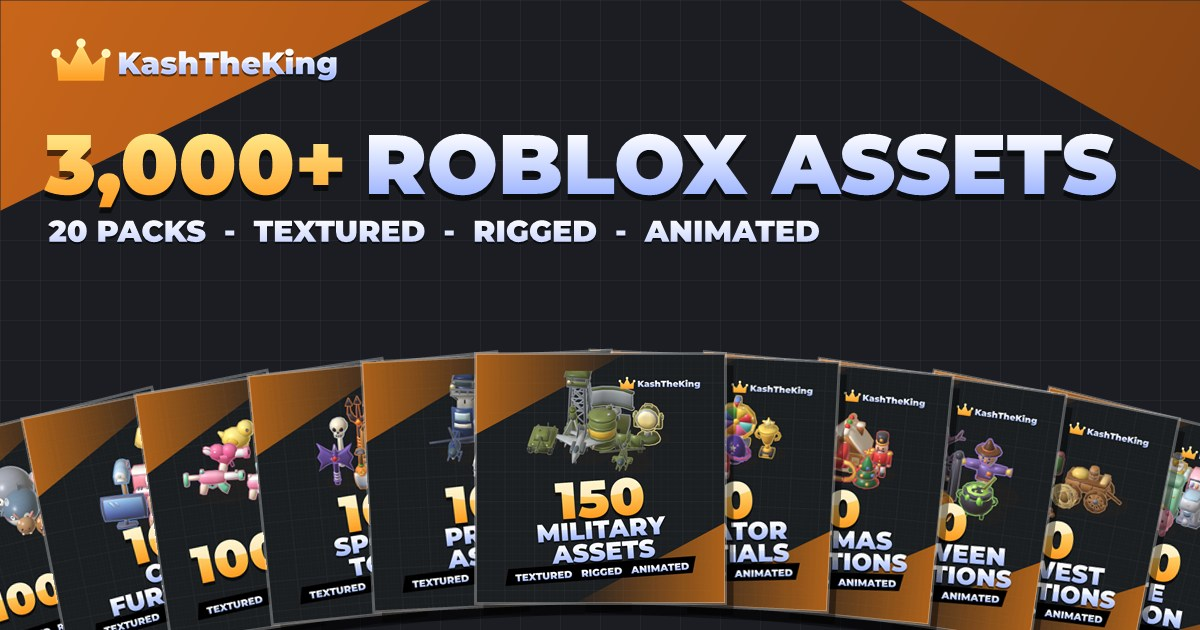
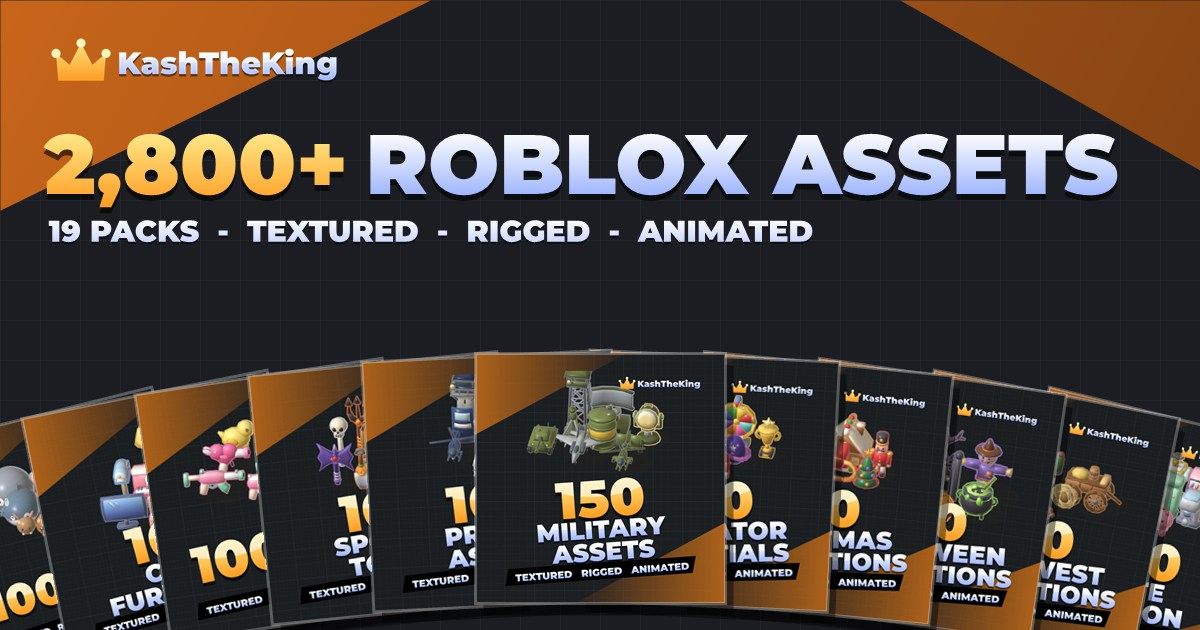
Shop: 250 Cute Sea Creatures is coming soon

diff --git a/shop/index.html b/shop/index.html
@@ -10,14 +10,14 @@
     <meta property="og:url" content="https://kashtheking.com/shop/">
     <meta property="og:title" content="KashTheKing Shop 👑">
     <meta property="og:description" content="Low-poly Roblox asset packs: textured, rigged and animated.">
-    <meta property="og:image" content="https://kashtheking.com/shop/og-banner.jpg?v=20">
+    <meta property="og:image" content="https://kashtheking.com/shop/og-banner.jpg?v=19">
     <meta property="og:image:width" content="1200">
     <meta property="og:image:height" content="630">
     <meta name="twitter:card" content="summary_large_image">
     <link rel="icon" type="image/png" sizes="32x32" href="/assets/favicon-crown-32.png">
     <link rel="apple-touch-icon" sizes="180x180" href="/assets/favicon-crown-180.png">
     <link rel="canonical" href="https://kashtheking.com/shop/">
-    <!--packs:start--><script type="application/ld+json">{"@context":"https://schema.org","@type":"ItemList","name":"Roblox asset packs by KashTheKing","numberOfItems":20,"itemListElement":[{"@type":"ListItem","position":1,"name":"150 Military Assets","url":"https://kashtheking.com/shop/150-military-assets/"},{"@type":"ListItem","position":2,"name":"100 Prison Assets","url":"https://kashtheking.com/shop/100-prison-assets/"},{"@type":"ListItem","position":3,"name":"100 Simulator Essentials","url":"https://kashtheking.com/shop/100-simulator-essentials/"},{"@type":"ListItem","position":4,"name":"100 Christmas Decorations","url":"https://kashtheking.com/shop/100-christmas-decorations/"},{"@type":"ListItem","position":5,"name":"100 Spooky Tools","url":"https://kashtheking.com/shop/100-spooky-tools/"},{"@type":"ListItem","position":6,"name":"100 Halloween Decorations","url":"https://kashtheking.com/shop/100-halloween-decorations/"},{"@type":"ListItem","position":7,"name":"100 Cute Guns","url":"https://kashtheking.com/shop/100-cute-guns/"},{"@type":"ListItem","position":8,"name":"100 Wild West Decorations","url":"https://kashtheking.com/shop/100-wild-west-decorations/"},{"@type":"ListItem","position":9,"name":"100 Cute Furniture","url":"https://kashtheking.com/shop/100-cute-furniture/"},{"@type":"ListItem","position":10,"name":"100 Cute Tycoon Assets","url":"https://kashtheking.com/shop/100-cute-tycoon-assets/"},{"@type":"ListItem","position":11,"name":"1000 Cute Pets","url":"https://kashtheking.com/shop/1000-cute-pets/"},{"@type":"ListItem","position":12,"name":"250 Cute Sea Creatures","url":"https://kashtheking.com/shop/250-cute-sea-creatures/"},{"@type":"ListItem","position":13,"name":"100 RPG Items","url":"https://kashtheking.com/shop/100-rpg-items/"},{"@type":"ListItem","position":14,"name":"100 Cute Cars","url":"https://kashtheking.com/shop/100-cute-cars/"},{"@type":"ListItem","position":15,"name":"100 Cute Foliage","url":"https://kashtheking.com/shop/100-cute-foliage/"},{"@type":"ListItem","position":16,"name":"100 Pirate Assets","url":"https://kashtheking.com/shop/100-pirate-assets/"},{"@type":"ListItem","position":17,"name":"100 Magic \u0026 Treasure Items","url":"https://kashtheking.com/shop/100-magic-and-treasure-items/"},{"@type":"ListItem","position":18,"name":"50 Low Poly Guns","url":"https://kashtheking.com/shop/50-low-poly-guns/"},{"@type":"ListItem","position":19,"name":"100 Cute Fruits","url":"https://kashtheking.com/shop/100-cute-fruits/"},{"@type":"ListItem","position":20,"name":"100 RPG Enemies","url":"https://kashtheking.com/shop/100-rpg-enemies/"}]}</script><!--packs:end-->
+    <!--packs:start--><script type="application/ld+json">{"@context":"https://schema.org","@type":"ItemList","name":"Roblox asset packs by KashTheKing","numberOfItems":19,"itemListElement":[{"@type":"ListItem","position":1,"name":"150 Military Assets","url":"https://kashtheking.com/shop/150-military-assets/"},{"@type":"ListItem","position":2,"name":"100 Prison Assets","url":"https://kashtheking.com/shop/100-prison-assets/"},{"@type":"ListItem","position":3,"name":"100 Simulator Essentials","url":"https://kashtheking.com/shop/100-simulator-essentials/"},{"@type":"ListItem","position":4,"name":"100 Christmas Decorations","url":"https://kashtheking.com/shop/100-christmas-decorations/"},{"@type":"ListItem","position":5,"name":"100 Spooky Tools","url":"https://kashtheking.com/shop/100-spooky-tools/"},{"@type":"ListItem","position":6,"name":"100 Halloween Decorations","url":"https://kashtheking.com/shop/100-halloween-decorations/"},{"@type":"ListItem","position":7,"name":"100 Cute Guns","url":"https://kashtheking.com/shop/100-cute-guns/"},{"@type":"ListItem","position":8,"name":"100 Wild West Decorations","url":"https://kashtheking.com/shop/100-wild-west-decorations/"},{"@type":"ListItem","position":9,"name":"100 Cute Furniture","url":"https://kashtheking.com/shop/100-cute-furniture/"},{"@type":"ListItem","position":10,"name":"100 Cute Tycoon Assets","url":"https://kashtheking.com/shop/100-cute-tycoon-assets/"},{"@type":"ListItem","position":11,"name":"1000 Cute Pets","url":"https://kashtheking.com/shop/1000-cute-pets/"},{"@type":"ListItem","position":12,"name":"100 RPG Items","url":"https://kashtheking.com/shop/100-rpg-items/"},{"@type":"ListItem","position":13,"name":"100 Cute Cars","url":"https://kashtheking.com/shop/100-cute-cars/"},{"@type":"ListItem","position":14,"name":"100 Cute Foliage","url":"https://kashtheking.com/shop/100-cute-foliage/"},{"@type":"ListItem","position":15,"name":"100 Pirate Assets","url":"https://kashtheking.com/shop/100-pirate-assets/"},{"@type":"ListItem","position":16,"name":"100 Magic \u0026 Treasure Items","url":"https://kashtheking.com/shop/100-magic-and-treasure-items/"},{"@type":"ListItem","position":17,"name":"50 Low Poly Guns","url":"https://kashtheking.com/shop/50-low-poly-guns/"},{"@type":"ListItem","position":18,"name":"100 Cute Fruits","url":"https://kashtheking.com/shop/100-cute-fruits/"},{"@type":"ListItem","position":19,"name":"100 RPG Enemies","url":"https://kashtheking.com/shop/100-rpg-enemies/"}]}</script><!--packs:end-->
     <link href="https://fonts.googleapis.com/css2?family=Inter:wght@400;600;700;800&family=Montserrat:wght@800;900&display=swap" rel="stylesheet">
     <style>
         * { margin: 0; padding: 0; box-sizing: border-box; }
@@ -120,7 +120,7 @@
     </div>
 
     <main>
-        <div id="grid" class="grid" aria-live="polite"><!--grid:start--><a class="card" href="150-military-assets/"><img src="img/150MilitaryAssets.jpg" alt="150 Military Assets Roblox asset pack" loading="lazy" width="540" height="540"><div class="body"><h2>150 Military Assets</h2><p>150 chunky low-poly military assets, true to scale for a 5-stud character: from a 0.6-stud bullet to an 80-stud cargo plane. Sandbags, barriers, trenches, bunkers, towers, hangar, tents, crates, radar, artillery, projectiles, tanks, trucks, helicopters, jets and boats. 1 Blender unit = 1 stud: hand-held gear is 0.6 to 3.5 studs, cover is chest high, doors and decks clear 7 studs, vehicles are 12 to 37 long. Every wheel is its own part, weapons have Turret / Barrel / Muzzle bones. Textured, rigged and animated.</p></div></a><a class="card" href="100-prison-assets/"><img src="img/100PrisonAssets.jpg" alt="100 Prison Assets Roblox asset pack" loading="lazy" width="540" height="540"><div class="body"><h2>100 Prison Assets</h2><p>100 chunky low-poly prison assets for jailbreak and escape games, true to scale for a 5-stud character: from a 0.8-stud key to a 30-stud prison bus and a 35-stud guard tower. Police car, SUV, prison van, bus, armoured truck, motorbike and helicopter, cells with sliding bar doors, bunks, walls, fences, gates, guard tower, yard, cafeteria, laundry, workshop, offices, security gear and escape tools. 1 Blender unit = 1 stud: cells are 12 x 10 x 10, doors clear 7.5 studs. Every wheel is its own part; doors, gates, barrier, searchlight and camera have bones. Textured, rigged and animated.</p></div></a><a class="card" href="100-simulator-essentials/"><img src="img/100SimulatorEssentials.jpg" alt="100 Simulator Essentials Roblox asset pack" loading="lazy" width="540" height="540"><div class="body"><h2>100 Simulator Essentials</h2><p>100 chunky low-poly props for simulator games: pet eggs, hatching stands, coins and gems, breakables, gates, portals and islands, shop and upgrade stations, boosts and rewards. Textured, rigged and animated.</p></div></a><a class="card" href="100-christmas-decorations/"><img src="img/100Christmas.jpg" alt="100 Christmas Decorations Roblox asset pack" loading="lazy" width="540" height="540"><div class="body"><h2>100 Christmas Decorations</h2><p>100 chunky low-poly Christmas and winter decorations: snowy pines and decorated trees, presents, candy canes and gingerbread, snowmen and snow forts, ice, ornaments, lights and village props. Textured, rigged and animated.</p></div></a><a class="card" href="100-spooky-tools/"><img src="img/100SpookyTools.jpg" alt="100 Spooky Tools Roblox asset pack" loading="lazy" width="540" height="540"><div class="body"><h2>100 Spooky Tools</h2><p>100 chunky low-poly Halloween tools for simulator and survival games: axes, pickaxes, hammers, shovels, swords, scythes, staffs and pitchforks in upgrade tiers from wood and bone to pumpkin, bat, slime, skull and cursed. Textured, rigged and animated.</p></div></a><a class="card" href="100-halloween-decorations/"><img src="img/100HalloweenDecor.jpg" alt="100 Halloween Decorations Roblox asset pack" loading="lazy" width="540" height="540"><div class="body"><h2>100 Halloween Decorations</h2><p>100 chunky cute-spooky Halloween map decorations: dead trees, pumpkins and jack-o-lanterns, gravestones and crypts, fences and gates, candles and lanterns, witch props, bones and decor. Textured, rigged and animated.</p></div></a><a class="card" href="100-cute-guns/"><img src="img/100CuteGuns.jpg" alt="100 Cute Guns Roblox asset pack" loading="lazy" width="540" height="540"><div class="body"><h2>100 Cute Guns</h2><p>100 cute, chubby toy blasters: pistols, SMGs, rifles, shotguns, snipers, launchers, ray guns and novelty guns in pastel and candy colours. Textured, rigged and animated.</p></div></a><a class="card" href="100-wild-west-decorations/"><img src="img/100WildWest.jpg" alt="100 Wild West Decorations Roblox asset pack" loading="lazy" width="540" height="540"><div class="body"><h2>100 Wild West Decorations</h2><p>100 chunky low-poly Wild West map decorations: cacti, tumbleweeds, dead trees, desert rocks and mesas, town props, ranch fences and wagons, mine carts and rails, and camp gear. Textured, rigged and animated.</p></div></a><a class="card" href="100-cute-furniture/"><img src="img/100CuteFurniture.jpg" alt="100 Cute Furniture Roblox asset pack" loading="lazy" width="540" height="540"><div class="body"><h2>100 Cute Furniture</h2><p>100 cute rounded low-poly furniture pieces in pastel colours for roleplay, housing and tycoon games: living room, bedroom, kitchen, bathroom, office, kids and gaming, decor and outdoor. Textured, rigged and animated.</p></div></a><a class="card" href="100-cute-tycoon-assets/"><img src="img/100CuteTycoon.jpg" alt="100 Cute Tycoon Assets Roblox asset pack" loading="lazy" width="540" height="540"><div class="body"><h2>100 Cute Tycoon Assets</h2><p>100 cute rounded pastel tycoon assets: droppers in ten tiers, conveyors and pipes, upgraders, furnaces and machines, cash, coins, gold and safes, crates and ores, walls, doors, floors and stairs, decor, buttons, pads, trophies and a teleporter. Textured, rigged and animated.</p></div></a><a class="card" href="1000-cute-pets/"><img src="img/1000CutePets.jpg" alt="1000 Cute Pets Roblox asset pack" loading="lazy" width="540" height="540"><div class="body"><h2>1000 Cute Pets</h2><p>1000 cute round pets and animals with happy, neutral and angry faces. Cats, dogs, farm, forest, safari, birds, reptiles, sea creatures, bugs and mythical beasts. Textured, rigged and animated.</p></div></a><a class="card" href="250-cute-sea-creatures/"><img src="img/250CuteSeaCreatures.jpg" alt="250 Cute Sea Creatures Roblox asset pack" loading="lazy" width="540" height="540"><div class="body"><h2>250 Cute Sea Creatures</h2><p>250 cute low-poly sea creatures: fish, sharks, whales, dolphins, crabs, lobsters, octopuses, squid, jellyfish and more. They swim, blink and bite. Textured, rigged and animated.</p></div></a><a class="card" href="100-rpg-items/"><img src="img/100RPGItems.jpg" alt="100 RPG Items Roblox asset pack" loading="lazy" width="540" height="540"><div class="body"><h2>100 RPG Items</h2><p>100 chunky low-poly RPG and survival items: tools, weapons, armour, gear, food, resources, crafting stations and economy props. Textured, rigged and animated.</p></div></a><a class="card" href="100-cute-cars/"><img src="img/100CuteCars.jpg" alt="100 Cute Cars Roblox asset pack" loading="lazy" width="540" height="540"><div class="body"><h2>100 Cute Cars</h2><p>100 low-poly cartoon cars: compacts, sedans, sports cars, utility vehicles, service vehicles, fun vehicles, heavy trucks and vintage cars. Wheels are separate bones that spin, tyres have a black outline, no interiors. Textured, rigged and animated.</p></div></a><a class="card" href="100-cute-foliage/"><img src="img/100CuteFoliage.jpg" alt="100 Cute Foliage Roblox asset pack" loading="lazy" width="540" height="540"><div class="body"><h2>100 Cute Foliage</h2><p>100 cute low-poly terrain decorations: trees, pines, bushes, grass, flowers, mushrooms, rocks, fallen logs and stumps. Textured, rigged and animated.</p></div></a><a class="card" href="100-pirate-assets/"><img src="img/100PirateAssets.jpg" alt="100 Pirate Assets Roblox asset pack" loading="lazy" width="540" height="540"><div class="body"><h2>100 Pirate Assets</h2><p>100 chunky low-poly pirate assets: characters, creatures, weapons, treasure, ship parts and island props. Textured, rigged and animated.</p></div></a><a class="card" href="100-magic-and-treasure-items/"><img src="img/100MagicTreasure.jpg" alt="100 Magic &amp; Treasure Items Roblox asset pack" loading="lazy" width="540" height="540"><div class="body"><h2>100 Magic &amp; Treasure Items</h2><p>100 chunky low-poly potions, gems, crystals, magic items, jewelry and treasure. Textured, rigged and animated.</p></div></a><a class="card" href="50-low-poly-guns/"><img src="img/50LowPolyGuns.jpg" alt="50 Low Poly Guns Roblox asset pack" loading="lazy" width="540" height="540"><div class="body"><h2>50 Low Poly Guns</h2><p>50 chunky low-poly guns and firearms. Textured, rigged and animated.</p></div></a><a class="card" href="100-cute-fruits/"><img src="img/100CuteFruits.jpg" alt="100 Cute Fruits Roblox asset pack" loading="lazy" width="540" height="540"><div class="body"><h2>100 Cute Fruits</h2><p>100 cute low-poly fruits with blinking faces and a soft glowing outline. Every fruit has an idle wiggle and a blink.</p></div></a><a class="card" href="100-rpg-enemies/"><img src="img/100RPGEnemies.jpg" alt="100 RPG Enemies Roblox asset pack" loading="lazy" width="540" height="540"><div class="body"><h2>100 RPG Enemies</h2><p>100 chunky low-poly RPG enemies: cute slimes, big angry slimes, skeletons, undead, goblins and orcs, golems, dragons, beasts and dark forces. Textured, rigged and animated.</p></div></a><!--grid:end--></div>
+        <div id="grid" class="grid" aria-live="polite"><!--grid:start--><a class="card" href="150-military-assets/"><img src="img/150MilitaryAssets.jpg" alt="150 Military Assets Roblox asset pack" loading="lazy" width="540" height="540"><div class="body"><h2>150 Military Assets</h2><p>150 chunky low-poly military assets, true to scale for a 5-stud character: from a 0.6-stud bullet to an 80-stud cargo plane. Sandbags, barriers, trenches, bunkers, towers, hangar, tents, crates, radar, artillery, projectiles, tanks, trucks, helicopters, jets and boats. 1 Blender unit = 1 stud: hand-held gear is 0.6 to 3.5 studs, cover is chest high, doors and decks clear 7 studs, vehicles are 12 to 37 long. Every wheel is its own part, weapons have Turret / Barrel / Muzzle bones. Textured, rigged and animated.</p></div></a><a class="card" href="100-prison-assets/"><img src="img/100PrisonAssets.jpg" alt="100 Prison Assets Roblox asset pack" loading="lazy" width="540" height="540"><div class="body"><h2>100 Prison Assets</h2><p>100 chunky low-poly prison assets for jailbreak and escape games, true to scale for a 5-stud character: from a 0.8-stud key to a 30-stud prison bus and a 35-stud guard tower. Police car, SUV, prison van, bus, armoured truck, motorbike and helicopter, cells with sliding bar doors, bunks, walls, fences, gates, guard tower, yard, cafeteria, laundry, workshop, offices, security gear and escape tools. 1 Blender unit = 1 stud: cells are 12 x 10 x 10, doors clear 7.5 studs. Every wheel is its own part; doors, gates, barrier, searchlight and camera have bones. Textured, rigged and animated.</p></div></a><a class="card" href="100-simulator-essentials/"><img src="img/100SimulatorEssentials.jpg" alt="100 Simulator Essentials Roblox asset pack" loading="lazy" width="540" height="540"><div class="body"><h2>100 Simulator Essentials</h2><p>100 chunky low-poly props for simulator games: pet eggs, hatching stands, coins and gems, breakables, gates, portals and islands, shop and upgrade stations, boosts and rewards. Textured, rigged and animated.</p></div></a><a class="card" href="100-christmas-decorations/"><img src="img/100Christmas.jpg" alt="100 Christmas Decorations Roblox asset pack" loading="lazy" width="540" height="540"><div class="body"><h2>100 Christmas Decorations</h2><p>100 chunky low-poly Christmas and winter decorations: snowy pines and decorated trees, presents, candy canes and gingerbread, snowmen and snow forts, ice, ornaments, lights and village props. Textured, rigged and animated.</p></div></a><a class="card" href="100-spooky-tools/"><img src="img/100SpookyTools.jpg" alt="100 Spooky Tools Roblox asset pack" loading="lazy" width="540" height="540"><div class="body"><h2>100 Spooky Tools</h2><p>100 chunky low-poly Halloween tools for simulator and survival games: axes, pickaxes, hammers, shovels, swords, scythes, staffs and pitchforks in upgrade tiers from wood and bone to pumpkin, bat, slime, skull and cursed. Textured, rigged and animated.</p></div></a><a class="card" href="100-halloween-decorations/"><img src="img/100HalloweenDecor.jpg" alt="100 Halloween Decorations Roblox asset pack" loading="lazy" width="540" height="540"><div class="body"><h2>100 Halloween Decorations</h2><p>100 chunky cute-spooky Halloween map decorations: dead trees, pumpkins and jack-o-lanterns, gravestones and crypts, fences and gates, candles and lanterns, witch props, bones and decor. Textured, rigged and animated.</p></div></a><a class="card" href="100-cute-guns/"><img src="img/100CuteGuns.jpg" alt="100 Cute Guns Roblox asset pack" loading="lazy" width="540" height="540"><div class="body"><h2>100 Cute Guns</h2><p>100 cute, chubby toy blasters: pistols, SMGs, rifles, shotguns, snipers, launchers, ray guns and novelty guns in pastel and candy colours. Textured, rigged and animated.</p></div></a><a class="card" href="100-wild-west-decorations/"><img src="img/100WildWest.jpg" alt="100 Wild West Decorations Roblox asset pack" loading="lazy" width="540" height="540"><div class="body"><h2>100 Wild West Decorations</h2><p>100 chunky low-poly Wild West map decorations: cacti, tumbleweeds, dead trees, desert rocks and mesas, town props, ranch fences and wagons, mine carts and rails, and camp gear. Textured, rigged and animated.</p></div></a><a class="card" href="100-cute-furniture/"><img src="img/100CuteFurniture.jpg" alt="100 Cute Furniture Roblox asset pack" loading="lazy" width="540" height="540"><div class="body"><h2>100 Cute Furniture</h2><p>100 cute rounded low-poly furniture pieces in pastel colours for roleplay, housing and tycoon games: living room, bedroom, kitchen, bathroom, office, kids and gaming, decor and outdoor. Textured, rigged and animated.</p></div></a><a class="card" href="100-cute-tycoon-assets/"><img src="img/100CuteTycoon.jpg" alt="100 Cute Tycoon Assets Roblox asset pack" loading="lazy" width="540" height="540"><div class="body"><h2>100 Cute Tycoon Assets</h2><p>100 cute rounded pastel tycoon assets: droppers in ten tiers, conveyors and pipes, upgraders, furnaces and machines, cash, coins, gold and safes, crates and ores, walls, doors, floors and stairs, decor, buttons, pads, trophies and a teleporter. Textured, rigged and animated.</p></div></a><a class="card" href="1000-cute-pets/"><img src="img/1000CutePets.jpg" alt="1000 Cute Pets Roblox asset pack" loading="lazy" width="540" height="540"><div class="body"><h2>1000 Cute Pets</h2><p>1000 cute round pets and animals with happy, neutral and angry faces. Cats, dogs, farm, forest, safari, birds, reptiles, sea creatures, bugs and mythical beasts. Textured, rigged and animated.</p></div></a><a class="card" href="100-rpg-items/"><img src="img/100RPGItems.jpg" alt="100 RPG Items Roblox asset pack" loading="lazy" width="540" height="540"><div class="body"><h2>100 RPG Items</h2><p>100 chunky low-poly RPG and survival items: tools, weapons, armour, gear, food, resources, crafting stations and economy props. Textured, rigged and animated.</p></div></a><a class="card" href="100-cute-cars/"><img src="img/100CuteCars.jpg" alt="100 Cute Cars Roblox asset pack" loading="lazy" width="540" height="540"><div class="body"><h2>100 Cute Cars</h2><p>100 low-poly cartoon cars: compacts, sedans, sports cars, utility vehicles, service vehicles, fun vehicles, heavy trucks and vintage cars. Wheels are separate bones that spin, tyres have a black outline, no interiors. Textured, rigged and animated.</p></div></a><a class="card" href="100-cute-foliage/"><img src="img/100CuteFoliage.jpg" alt="100 Cute Foliage Roblox asset pack" loading="lazy" width="540" height="540"><div class="body"><h2>100 Cute Foliage</h2><p>100 cute low-poly terrain decorations: trees, pines, bushes, grass, flowers, mushrooms, rocks, fallen logs and stumps. Textured, rigged and animated.</p></div></a><a class="card" href="100-pirate-assets/"><img src="img/100PirateAssets.jpg" alt="100 Pirate Assets Roblox asset pack" loading="lazy" width="540" height="540"><div class="body"><h2>100 Pirate Assets</h2><p>100 chunky low-poly pirate assets: characters, creatures, weapons, treasure, ship parts and island props. Textured, rigged and animated.</p></div></a><a class="card" href="100-magic-and-treasure-items/"><img src="img/100MagicTreasure.jpg" alt="100 Magic &amp; Treasure Items Roblox asset pack" loading="lazy" width="540" height="540"><div class="body"><h2>100 Magic &amp; Treasure Items</h2><p>100 chunky low-poly potions, gems, crystals, magic items, jewelry and treasure. Textured, rigged and animated.</p></div></a><a class="card" href="50-low-poly-guns/"><img src="img/50LowPolyGuns.jpg" alt="50 Low Poly Guns Roblox asset pack" loading="lazy" width="540" height="540"><div class="body"><h2>50 Low Poly Guns</h2><p>50 chunky low-poly guns and firearms. Textured, rigged and animated.</p></div></a><a class="card" href="100-cute-fruits/"><img src="img/100CuteFruits.jpg" alt="100 Cute Fruits Roblox asset pack" loading="lazy" width="540" height="540"><div class="body"><h2>100 Cute Fruits</h2><p>100 cute low-poly fruits with blinking faces and a soft glowing outline. Every fruit has an idle wiggle and a blink.</p></div></a><a class="card" href="100-rpg-enemies/"><img src="img/100RPGEnemies.jpg" alt="100 RPG Enemies Roblox asset pack" loading="lazy" width="540" height="540"><div class="body"><h2>100 RPG Enemies</h2><p>100 chunky low-poly RPG enemies: cute slimes, big angry slimes, skeletons, undead, goblins and orcs, golems, dragons, beasts and dark forces. Textured, rigged and animated.</p></div></a><!--grid:end--></div>
         <p id="empty" class="empty" hidden>No packs match that search.</p>
 
         <section class="info" aria-label="About the packs">
